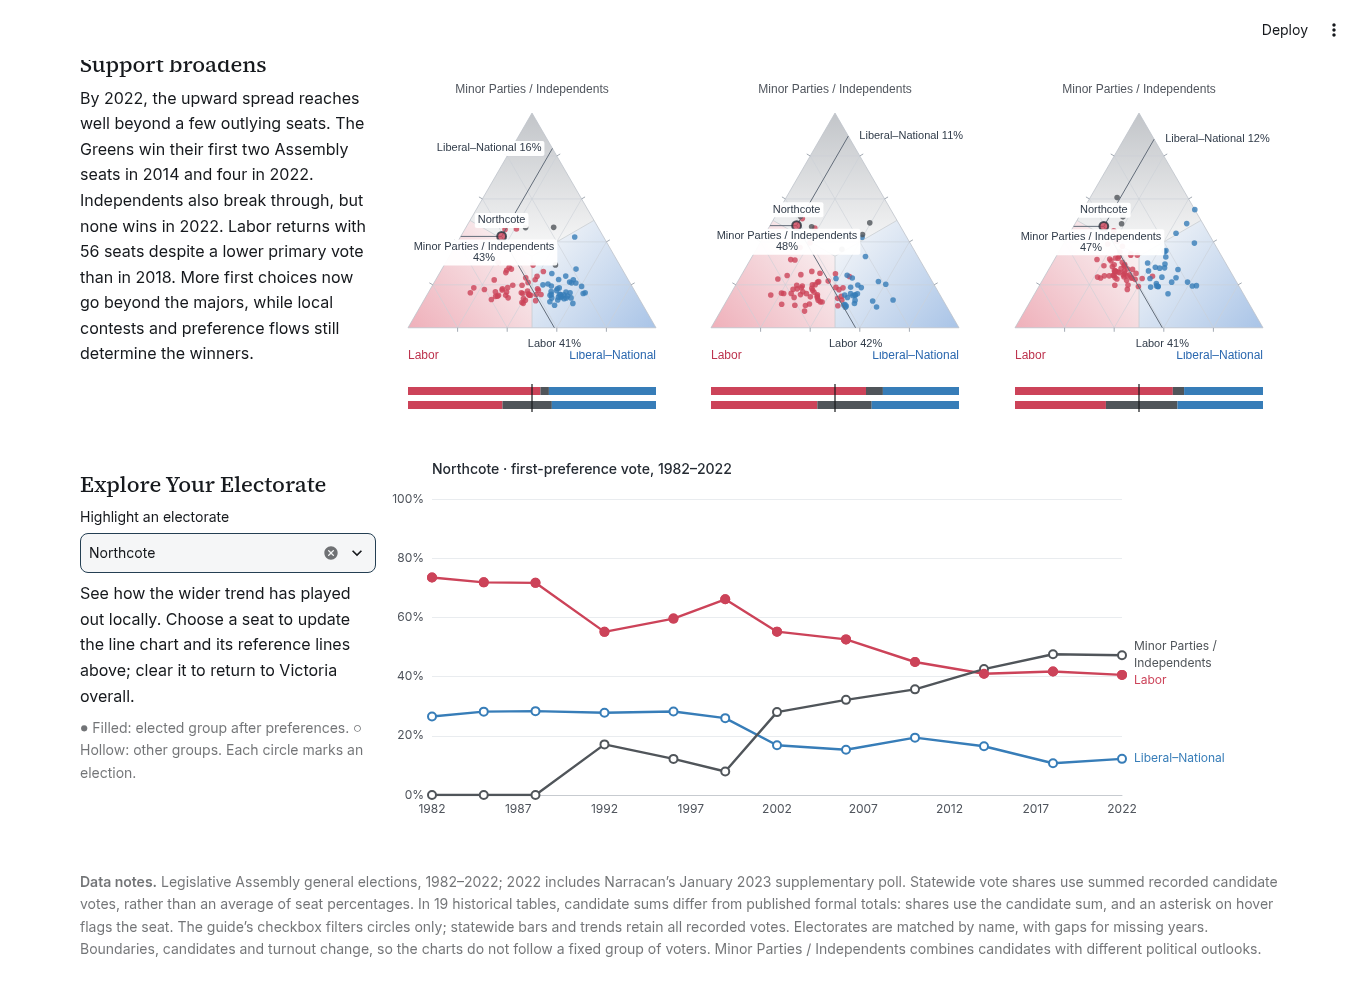
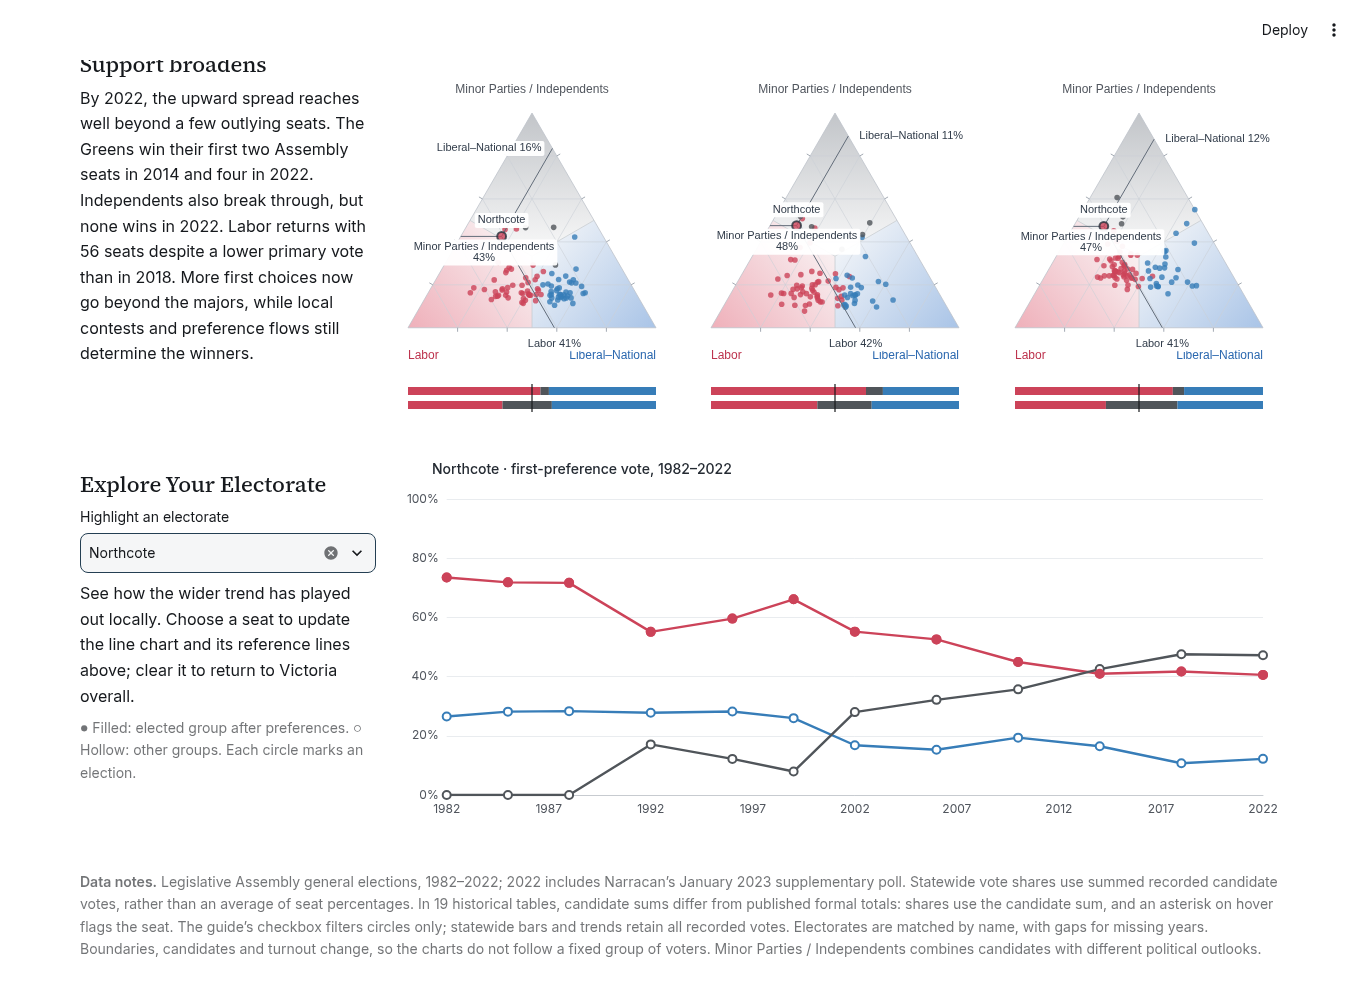
Align line-chart insets with the triangles and remove repeated end labels

diff --git a/charts.py b/charts.py
@@ -163,8 +163,7 @@ def primary_trend_options(df, electorate=None):
             showSymbol=True,symbol='circle',symbolSize=8,connectNulls=False,
             lineStyle=dict(color=color,width=2.4),
             itemStyle=dict(color='#ffffff',borderColor=color,borderWidth=2),
-            endLabel=dict(show=True,formatter=group.replace(' / ', ' /\n'),color=color,fontSize=12,lineHeight=17,distance=12),
-            labelLayout=dict(moveOverlap='shiftY'),emphasis=dict(focus='none',scale=False),z=3,
+            endLabel=dict(show=False),emphasis=dict(focus='none',scale=False),z=3,
         ))
         if electorate:
             series.append(dict(
@@ -174,11 +173,21 @@ def primary_trend_options(df, electorate=None):
                 silent=True,tooltip=dict(show=False),z=4,
             ))
     tooltip = '<strong>{@Year}</strong><br/>Labor: {@Labor label}<br/>Liberal–National: {@Liberal–National label}<br/>Minor Parties / Independents: {@Minor Parties / Independents label}<br/>{@Outcome}'
+    # Match the outer triangles, including the y-axis labels in the left inset.
+    # Three chart tracks contain two 8px gaps. Native media rules approximate
+    # their responsive inset to within half a pixel across the bounded page.
+    triangle_side = (CHART_HEIGHT - 164) / (math.sqrt(3) / 2)
+    media = []
+    for width in range(908, 1214, 6):
+        inset = max(24, (width + 3 - 16) / 6 - triangle_side / 2)
+        media.append(dict(query=dict(minWidth=width,maxWidth=width+6),option=dict(grid=dict(left=inset,right=inset))))
+    # ECharts needs a default media option to reset padding after narrowing.
+    media.append(dict(option=dict(grid=dict(left=24,right=24))))
     return dict(
         animation=False,backgroundColor='#ffffff',textStyle=dict(fontFamily='Inter, sans-serif'),
-        title=dict(text=f'{electorate or "Victoria overall"} · first-preference vote, 1982–2022',left=48,top=4,padding=0,textStyle=dict(color='#252b33',fontSize=14,fontWeight=500)),
+        title=dict(text=f'{electorate or "Victoria overall"} · first-preference vote, 1982–2022',left=48,top=4,padding=0,textAlign='left',textStyle=dict(color='#252b33',fontSize=14,fontWeight=500)),
         dataset=dict(source=primary_trend_data(df,electorate)),
-        grid=dict(left=48,right=165,top=40,bottom=44),
+        grid=dict(left=24,right=24,top=40,bottom=24,containLabel=True),media=media,
         xAxis=dict(type='time',min='1982-01-01',max='2022-01-01',splitNumber=8,axisLabel=dict(formatter='{yyyy}',color='#51565e',showMinLabel=True,showMaxLabel=True,hideOverlap=True),axisLine=dict(lineStyle=dict(color='#c7cbd0')),axisTick=dict(show=False),splitLine=dict(show=False)),
         yAxis=dict(type='value',min=0,max=100,interval=20,axisLabel=dict(formatter='{value}%',color='#51565e'),axisLine=dict(show=False),axisTick=dict(show=False),splitLine=dict(lineStyle=dict(color='#e9ecef'))),
         tooltip=dict(trigger='axis',confine=True,formatter=tooltip,axisPointer=dict(type='line',lineStyle=dict(color='#aeb5bd',type='dashed'))),

diff --git a/capture.py b/capture.py
@@ -78,7 +78,9 @@ with sync_playwright() as playwright:
     page.screenshot(path=str(ROOT/'screenshots/explore-northcote.png'))
     canvas=page.get_by_test_id('stEChartsChart').locator('canvas').first
     trend_box=canvas.bounding_box()
-    page.mouse.move(trend_box['x']+trend_box['width']-166,trend_box['y']+40+(trend_box['height']-84)*(1-seat.labor_pct/100))
+    track=(trend_box['width']-16)/3
+    inset=max(24,(track-(380-164)/(math.sqrt(3)/2))/2)
+    page.mouse.move(trend_box['x']+trend_box['width']-inset-1,trend_box['y']+40+(trend_box['height']-84)*(1-seat.labor_pct/100))
     page.wait_for_timeout(400)
     assert page.get_by_text('Elected: Labor',exact=False).is_visible()
     assert page.get_by_text('Labor: 41%',exact=False).is_visible()

diff --git a/README.md b/README.md
@@ -55,6 +55,8 @@ Three lines show first-preference shares for each election. Victoria overall is 
 
 The explorer sits directly below the gallery in a matching four-track grid: its heading, dropdown and explanation occupy the left track, and the 380px-high line chart spans the other three. The chart title is inside the plot component, so the whole explorer stays one chart row tall. One data note at the bottom covers coverage, vote weighting, flagged historical totals and changing seat boundaries.
 
+The line chart's horizontal insets follow the outer triangle edges: the y-axis labels begin at the first triangle, and the plot ends at the last triangle. Repeated party labels at the line ends are omitted; the shared colour legend and hover details identify the groups.
+
 In a selected seat, **filled circles** identify the group that won after preferences; the other groups have **hollow circles**. Circle size and party colours stay consistent. Tooltips show whole-percentage shares and the actual winning party. Statewide markers remain hollow because this view has no individual electorate winner. See [the design research](research/chart-design.md) for the guidance informing these choices.
 
 ![Northcote primary-vote trend with filled Labor winner markers](screenshots/explore-northcote.png)
